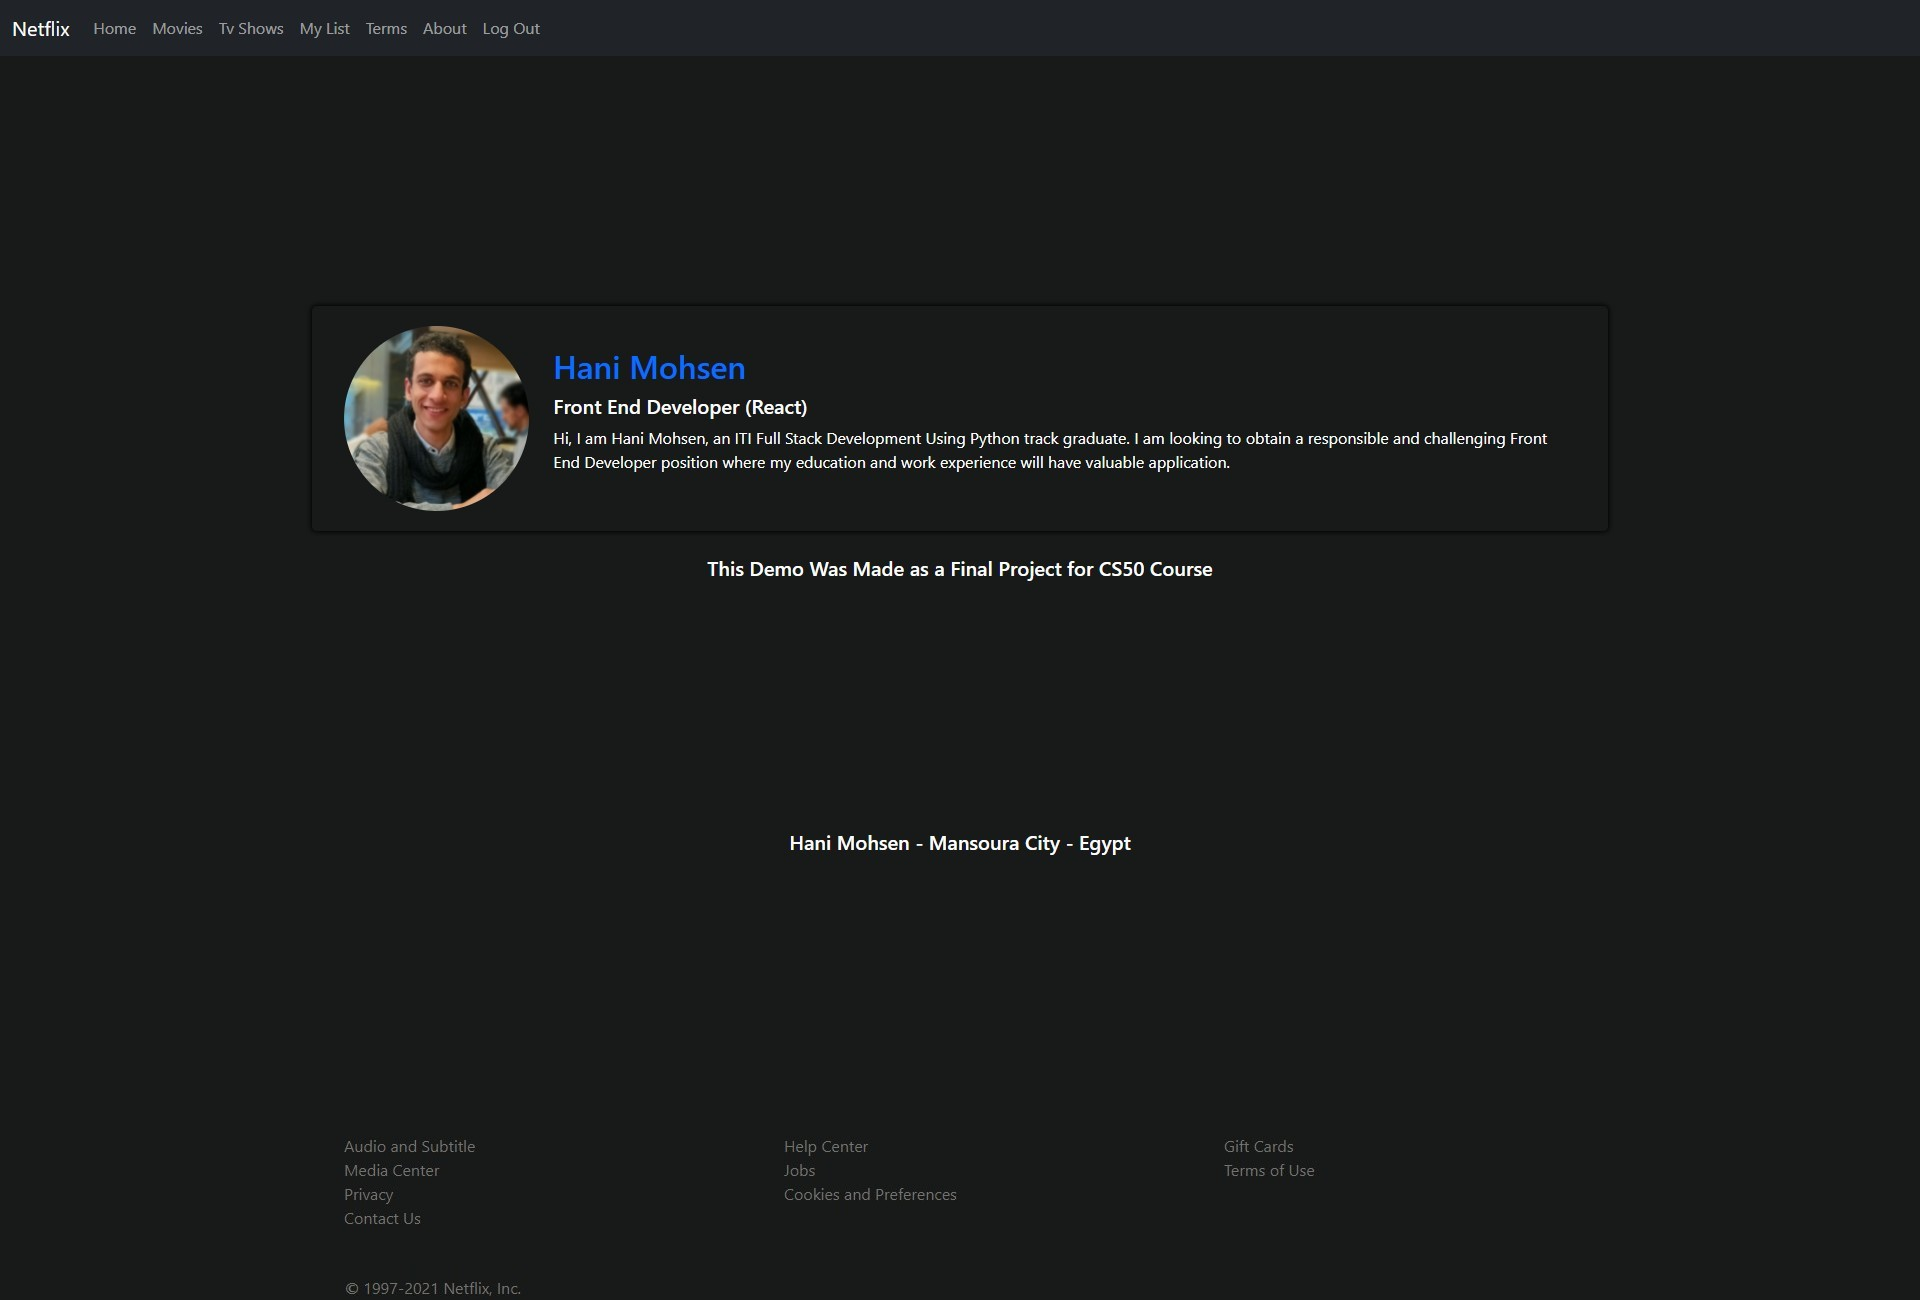
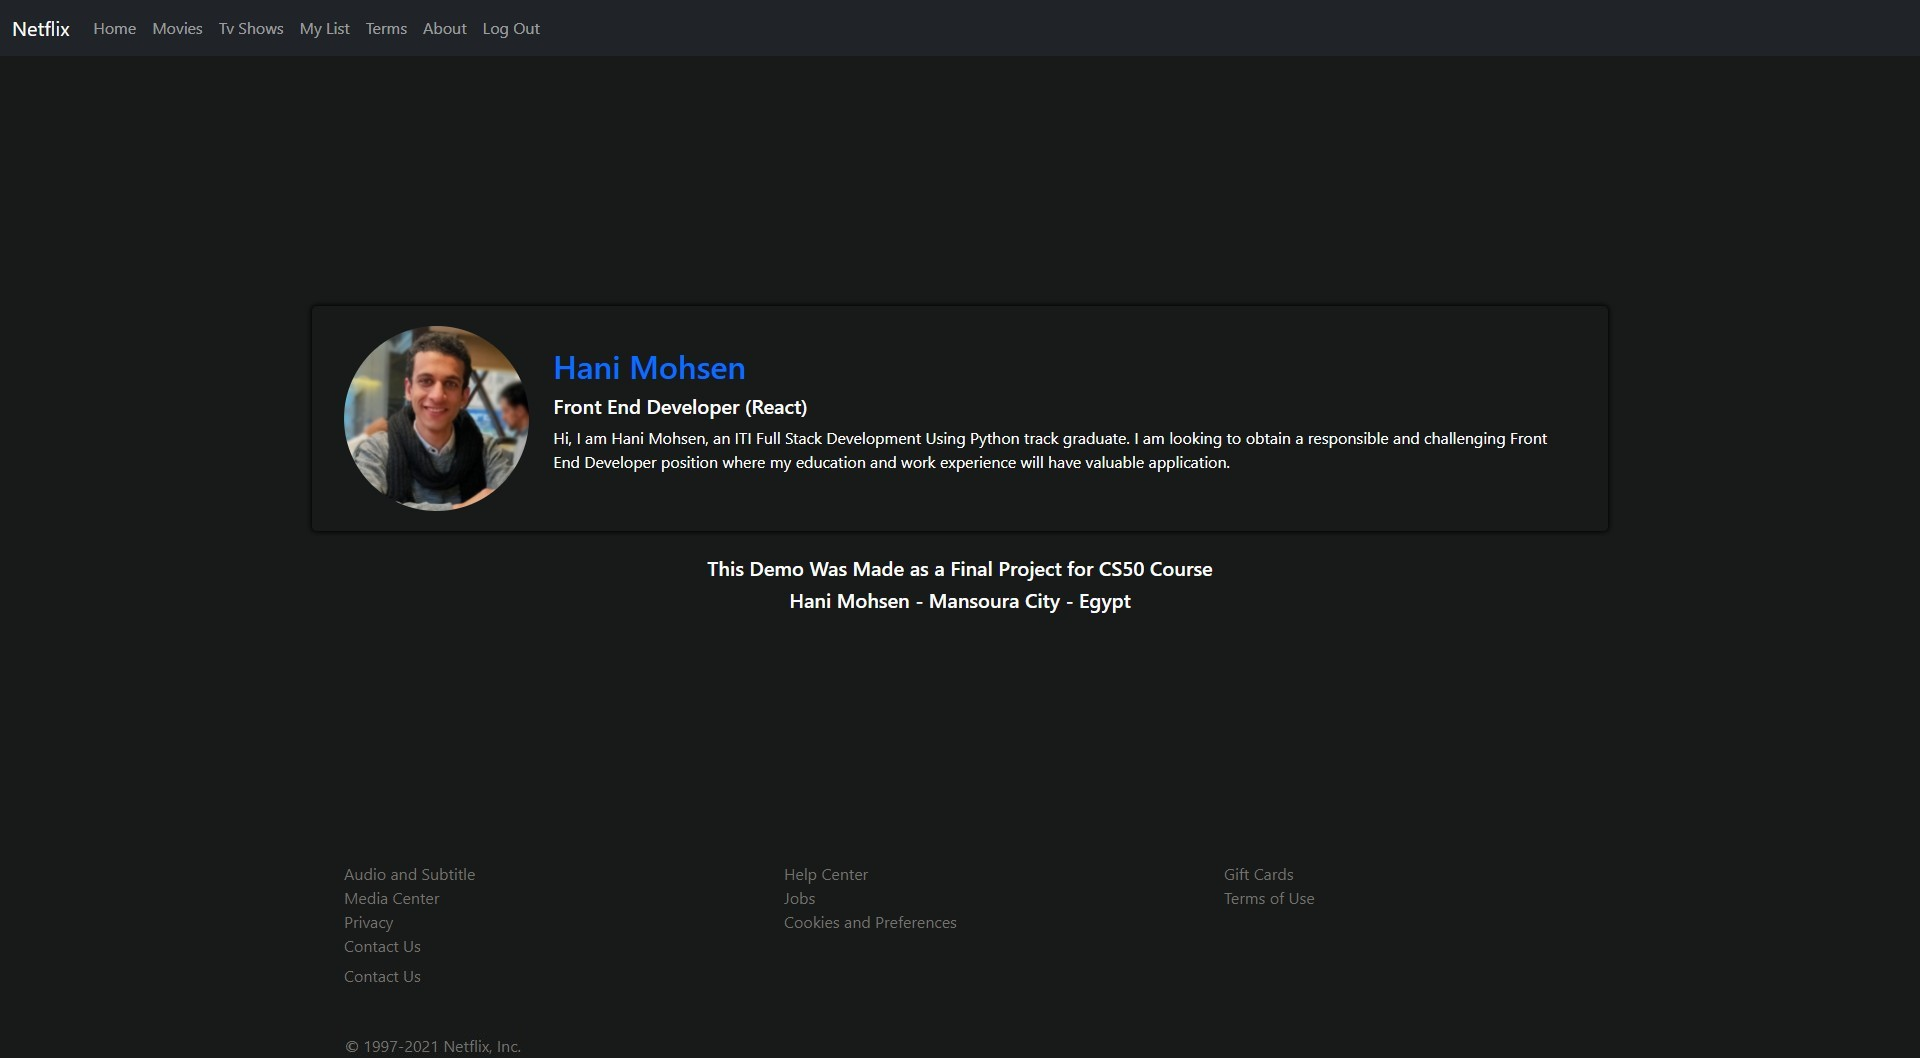
readme

diff --git a/templates/about.html b/templates/about.html
@@ -19,7 +19,7 @@
       </p>
     </div>
   </div>
-  <h5 style="margin-bottom: 250px; text-align: center;" >This Demo Was Made as a Final Project for CS50 Course</h5>
+  <h5 style="text-align: center;" >This Demo Was Made as a Final Project for CS50 Course</h5>
   <h5 style="margin-bottom: 250px; text-align: center;" >Hani Mohsen - Mansoura City - Egypt</h5>
 </div>
 {% endblock %}
